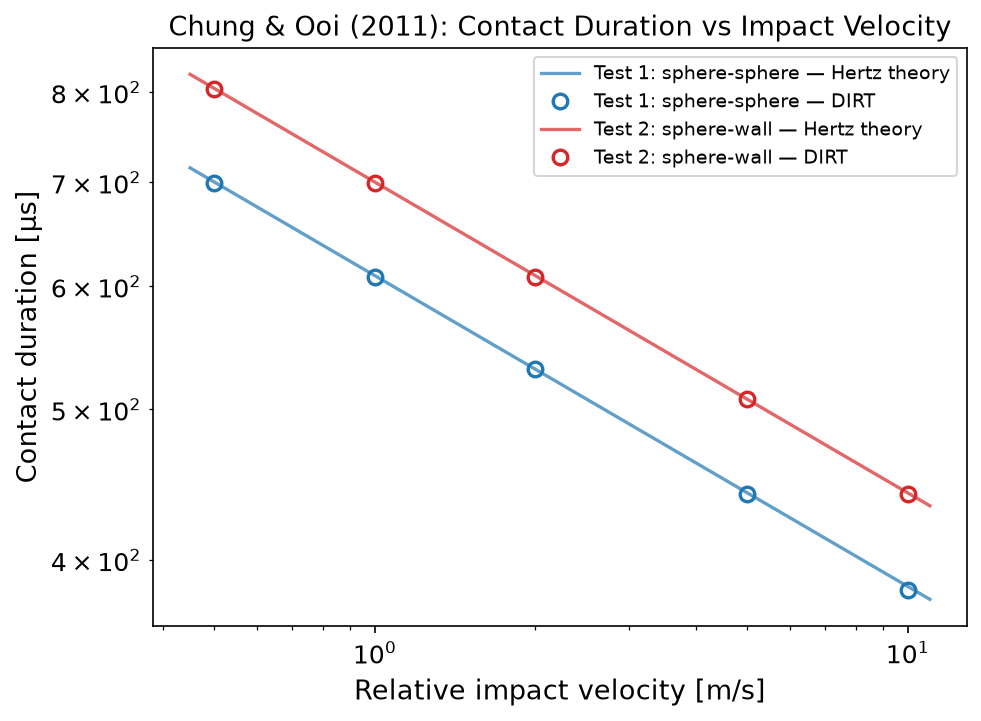
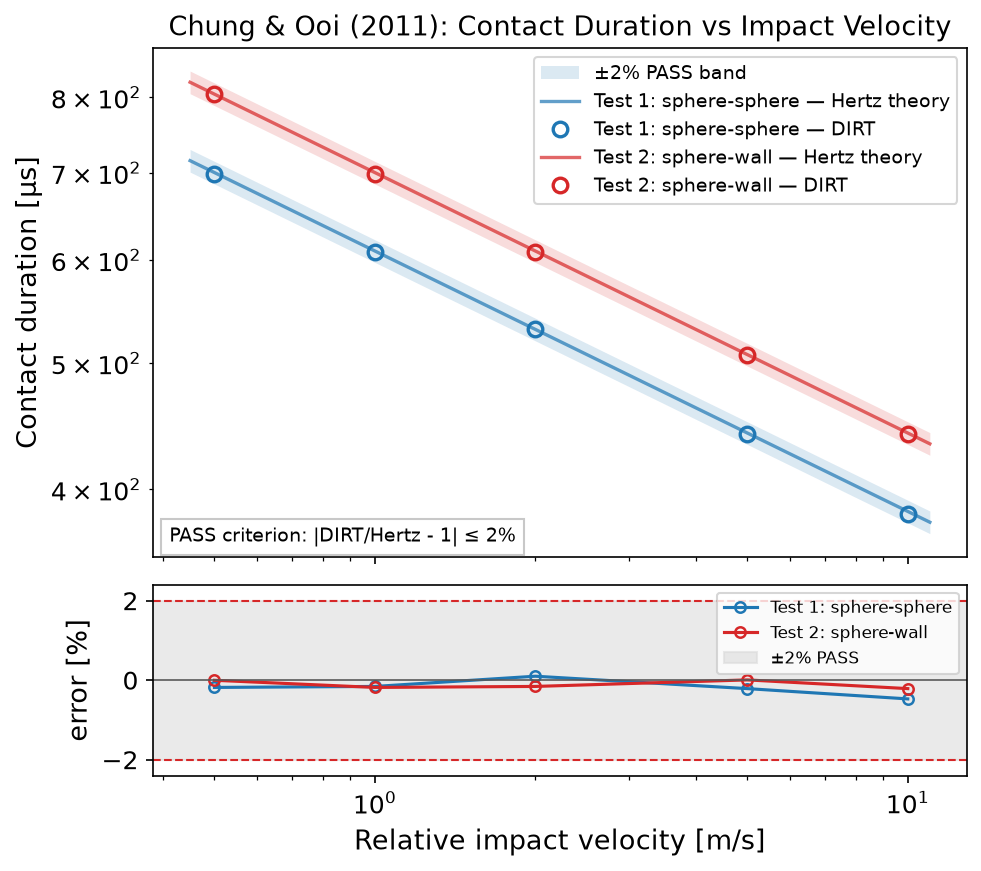
Show Chung Ooi impact tolerance bands

diff --git a/examples/bench_chung_ooi_impact/sweep.py b/examples/bench_chung_ooi_impact/sweep.py
@@ -393,36 +393,65 @@ def plot(rows):
 
     panels = [
         ("max_force", hertz_max_force, "Maximum contact force [N]",
-         "Chung & Ooi (2011): Max Contact Force vs Impact Velocity", "max_force.png", 1.0),
+         "Chung & Ooi (2011): Max Contact Force vs Impact Velocity", "max_force.png",
+         1.0, FORCE_TOL),
         ("contact_time", hertz_contact_time, "Contact duration [µs]",
-         "Chung & Ooi (2011): Contact Duration vs Impact Velocity", "contact_time.png", 1e6),
+         "Chung & Ooi (2011): Contact Duration vs Impact Velocity", "contact_time.png",
+         1e6, TIME_TOL),
         ("max_overlap", hertz_max_overlap, "Maximum overlap [µm]",
-         "Chung & Ooi (2011): Max Overlap vs Impact Velocity", "max_overlap.png", 1e6),
+         "Chung & Ooi (2011): Max Overlap vs Impact Velocity", "max_overlap.png",
+         1e6, OVERLAP_TOL),
     ]
 
     vgrid = np.logspace(math.log10(min(VELOCITIES) * 0.9),
                         math.log10(max(VELOCITIES) * 1.1), 200)
-    for key, theory_fn, ylabel, title, fname, scale in panels:
-        fig, ax = plt.subplots(figsize=(7, 5))
-        for tag, npart in CASES:
+    for key, theory_fn, ylabel, title, fname, scale, tol in panels:
+        fig, (ax, err_ax) = plt.subplots(
+            2, 1, figsize=(7, 6.3), sharex=True,
+            gridspec_kw={"height_ratios": [3.2, 1.2], "hspace": 0.08},
+        )
+        for i, (tag, npart) in enumerate(CASES):
             crows = sorted([r for r in rows if r["case"] == tag],
                            key=lambda x: float(x["v_impact"]))
             if not crows:
                 continue
+            theory = np.array([theory_fn(v, npart) * scale for v in vgrid])
+            ax.fill_between(
+                vgrid, theory * (1.0 - tol), theory * (1.0 + tol),
+                color=colors[tag], alpha=0.16, linewidth=0,
+                label=(f"±{tol*100:.0f}% PASS band" if i == 0 else None),
+            )
             ax.plot(vgrid, [theory_fn(v, npart) * scale for v in vgrid],
                     "-", color=colors[tag], linewidth=1.6, alpha=0.7,
                     label=f"{label[tag]} — Hertz theory")
             vs = [float(r["v_impact"]) for r in crows]
             ys = [float(r[key]) * scale for r in crows]
+            refs = [theory_fn(v, npart) * scale for v in vs]
+            errs = [(y / ref - 1.0) * 100.0 for y, ref in zip(ys, refs)]
             ax.plot(vs, ys, "o", color=colors[tag], markersize=7,
                     markerfacecolor="none", markeredgewidth=1.6,
                     label=f"{label[tag]} — DIRT")
-        ax.set_xlabel("Relative impact velocity [m/s]")
+            err_ax.plot(vs, errs, "o-", color=colors[tag], markersize=5,
+                        markerfacecolor="none", markeredgewidth=1.2,
+                        label=label[tag])
         ax.set_ylabel(ylabel)
         ax.set_title(title)
         ax.set_xscale("log")
         ax.set_yscale("log")
+        ax.text(0.02, 0.03, f"PASS criterion: |DIRT/Hertz - 1| ≤ {tol*100:.0f}%",
+                transform=ax.transAxes, fontsize=9,
+                bbox={"facecolor": "white", "edgecolor": "0.75", "alpha": 0.85})
         ax.legend(fontsize=9)
+        err_ax.axhspan(-tol * 100.0, tol * 100.0, color="0.85", alpha=0.55,
+                       label=f"±{tol*100:.0f}% PASS")
+        err_ax.axhline(0.0, color="0.35", linewidth=0.8)
+        err_ax.axhline(tol * 100.0, color="#d62728", linestyle="--", linewidth=1.0)
+        err_ax.axhline(-tol * 100.0, color="#d62728", linestyle="--", linewidth=1.0)
+        err_ax.set_xscale("log")
+        err_ax.set_xlabel("Relative impact velocity [m/s]")
+        err_ax.set_ylabel("error [%]")
+        err_ax.set_ylim(-tol * 120.0, tol * 120.0)
+        err_ax.legend(fontsize=8, loc="upper right")
         fig.savefig(os.path.join(PLOT_DIR, fname), bbox_inches="tight")
         plt.close(fig)
         print(f"Saved: {PLOT_DIR}/{fname}")

diff --git a/examples/VALIDATION.md b/examples/VALIDATION.md
@@ -102,18 +102,19 @@ overlap errors at round-off scale and contact-duration errors below 0.5%.
 ![](bench_chung_ooi_impact/plots/max_force.png)
 
 *Maximum contact force vs impact velocity for DIRT (points) and the Hertz
-analytical reference (lines), with both Chung & Ooi elastic normal-impact cases
-passing the 2% force tolerance.*
+analytical reference (lines). The shaded band is the ±2% force PASS criterion;
+both Chung & Ooi elastic normal-impact cases pass inside it.*
 
 ![](bench_chung_ooi_impact/plots/contact_time.png)
 
-*Contact duration vs impact velocity for DIRT and Hertz; the remaining residual is
-integer timestep resolution, and all cases pass the 2% contact-time tolerance.*
+*Contact duration vs impact velocity for DIRT and Hertz. The shaded band is the
+±2% contact-time PASS criterion; the remaining residual is integer timestep
+resolution, and all cases pass inside it.*
 
 ![](bench_chung_ooi_impact/plots/max_overlap.png)
 
-*Maximum overlap vs impact velocity for DIRT and Hertz; both cases pass the 2%
-overlap tolerance.*
+*Maximum overlap vs impact velocity for DIRT and Hertz. The shaded band is the
+±2% overlap PASS criterion; both cases pass inside it.*
 
 ## `bench_hertz_rebound` — Hertzian normal rebound
 

diff --git a/examples/bench_chung_ooi_impact/README.md b/examples/bench_chung_ooi_impact/README.md
@@ -94,20 +94,20 @@ them.
 ![](plots/max_force.png)
 
 *Maximum contact force across impact velocity: measured DIRT points overlaid on
-the independent Hertz analytical reference for Chung & Ooi Tests 1 and 2; all
-force checks PASS within the 2% tolerance.*
+the independent Hertz analytical reference for Chung & Ooi Tests 1 and 2. The
+shaded band is the ±2% PASS criterion; all force checks PASS inside it.*
 
 ![](plots/contact_time.png)
 
 *Contact duration across impact velocity: DIRT's measured contact step counts
-compared with the Hertz collision duration; all contact-time checks PASS within
-the 2% tolerance.*
+compared with the Hertz collision duration. The shaded band is the ±2% PASS
+criterion; all contact-time checks PASS inside it.*
 
 ![](plots/max_overlap.png)
 
 *Maximum overlap across impact velocity: DIRT's geometric peak overlap compared
-with the Hertz analytical reference; all overlap checks PASS within the 2%
-tolerance.*
+with the Hertz analytical reference. The shaded band is the ±2% PASS criterion;
+all overlap checks PASS inside it.*
 
 ## License
 
